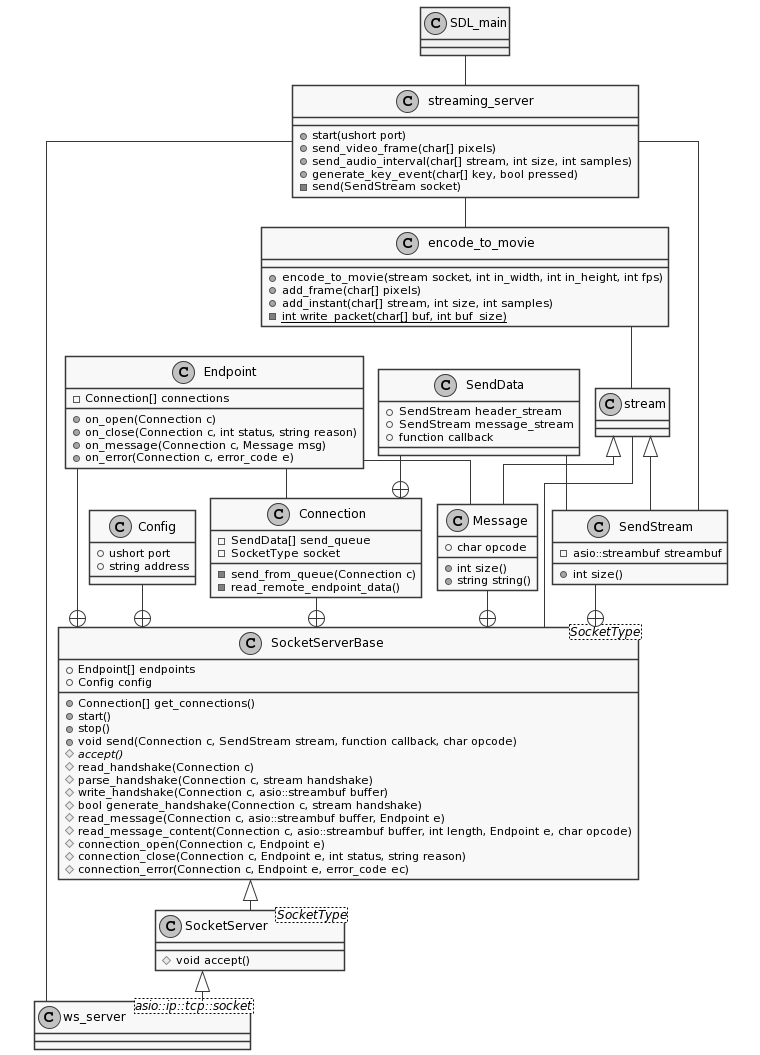
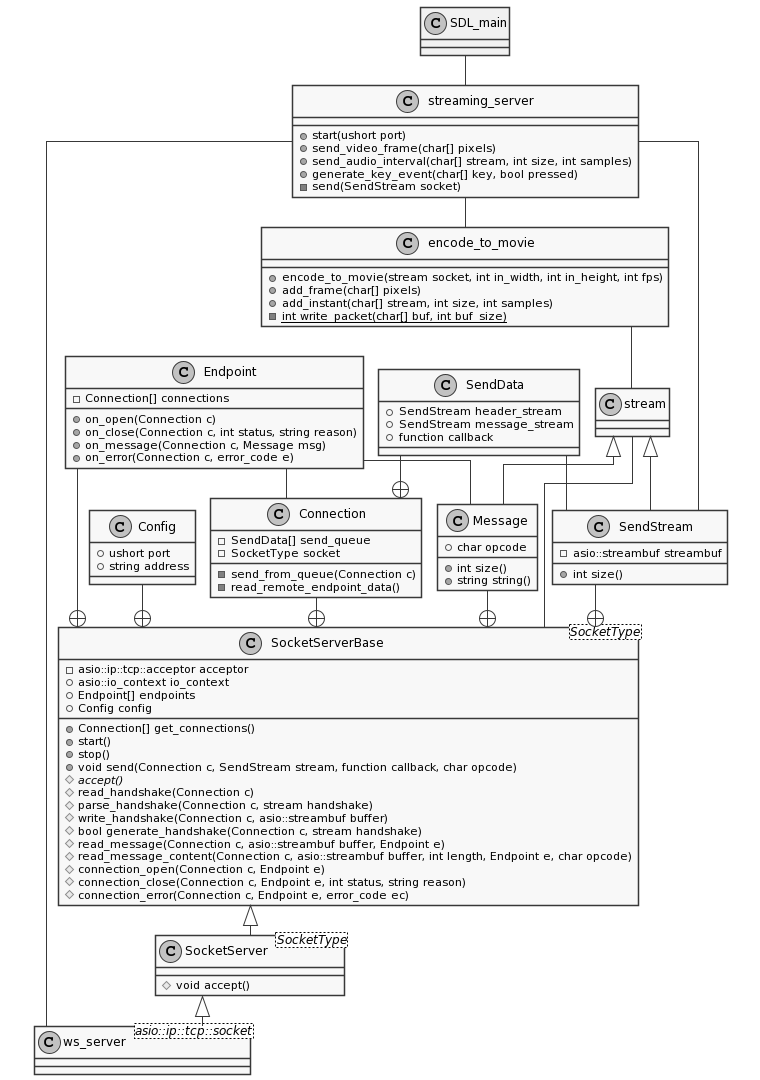
SocketServerBase

Changed region(s): [[0.0303, 0.0, 0.9684, 1.0]]

diff --git a/Streaming/Tesi/capitoli/capitolo3.tex b/Streaming/Tesi/capitoli/capitolo3.tex
@@ -385,7 +385,22 @@ Nel paragrafo \ref{subsec:cap1_StoriaDelCloudGaming} abbiamo parlato delle piatt
 
 WebSocket è un protocollo di comunicazione che fornisce canali di comunicazione full-duplex su una singola connessione TCP. È supportato nativamente da tutti i browser e il suo utilizzo è simile alle normali socket. Per questi motivi è il protocollo di comunicazione generico più utilizzato sul web \parencite{WebSocket_Web_APIs}.
 
-La classe che si occupa della comunicazione tramite WebSocket è \verb|streaming_server|. Come mostrato in Fig. \ref{fig:class_server_and_encoding_full} \verb|streaming_server| utilizza la classe \verb|ws_server|
+Con riferimento alla Fig. \ref{fig:class_server_and_encoding_full}, la classe che si occupa di inizializzare il server e comunicare con la classe per la codifica è \verb|streaming_server| la quale utilizza la classe \verb|ws_server| per comunicare tramite il protocollo WebSocket con la pagina HTML.
+
+La classe \verb|ws_server| implementa la classe generica \verb|SocketServer| tipizzandola come socket TCP della lirberia Asio\footnote{Asio è una libreria open source per la programmazione di rete.}.
+
+\verb|SocketServer| che eredita da \verb|SocketServerBase| implementa solo il metodo \verb|accept| utilizzato per accettare una nuova connessione, come mostrato nel Lis. \ref{lst:SocketServer_accept}.
+
+\begin{lstlisting}[caption=Funzione accept della classe SocketServer, label={lst:SocketServer_accept}]
+	void accept() override
+	{
+		auto connection = new Connection(new SocketType(io_context));
+		acceptor->accept(connection->socket);
+		read_handshake(connection);
+	}
+\end{lstlisting}
+
+\verb|SocketServerBase| offre le funzioni per avviare e fermare il server, gestire la connessione, scrivere e leggere tramite socket e gestire l'handshake.
 
 \begin{figure}[H]
 	\includegraphics[width=\linewidth]{immagini/class_server_and_encoding_full}
